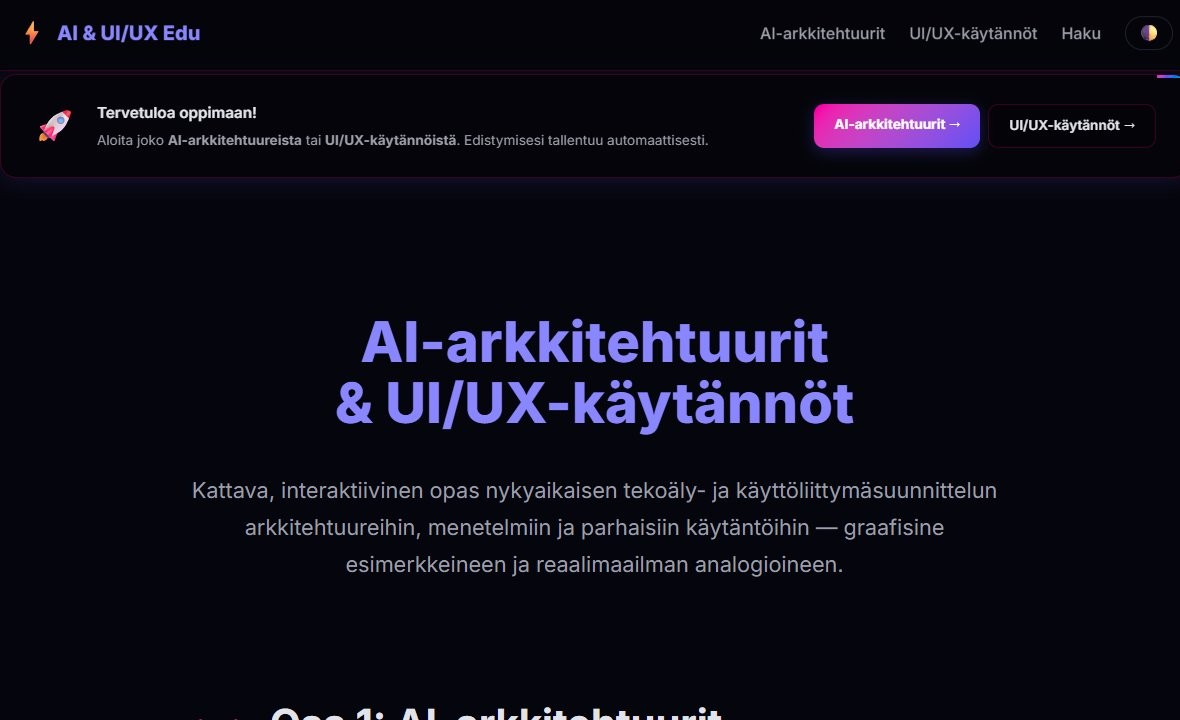
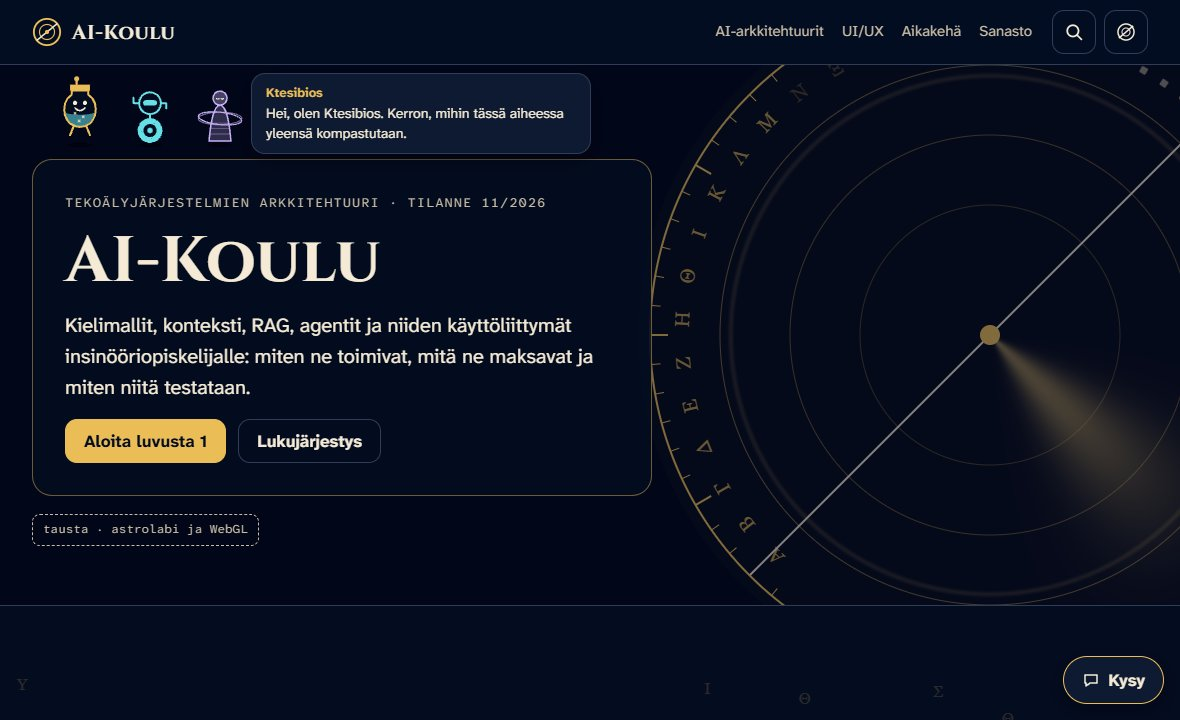
Refresh AI-Koulu card after its 11/2026 overhaul
New screenshot, one-liner, review and recommendations; pair is now
Väinämöinen · Claude Opus 5.5 with 3D/WebGL and Claude tags. Score
69 -> 98, 42 commits, last 2026-11-04, added to the Opus 5.5 lane.

diff --git a/src/data/content.ts b/src/data/content.ts
@@ -145,7 +145,7 @@ export const POINTS: { id: string; label: L10n; lines: Line[] }[] = [
   { id: 'top5', label: { fi: 'Oma top 5', en: 'My top 5' }, lines: [
     l('loiste', 'Viisi Infiniten itse valitsemaa projektia.', 'Five projects picked by Infinite.'),
     l('hionta', 'Pisteet tulevat kaavasta: tuoreus, laajuus, demo, testit, README ja kesto.', 'The score comes from a formula: recency, size, demo, tests, README and duration.'),
-    l('kirkkaus', 'Valinta ei seuraa pisteitä: AI-Koulu on pisteissä sijalla 16, mutta Infinite nostaa sen kärkeen.', 'The pick does not follow the scores: AI-Koulu is 16th by score, yet Infinite puts it first.'),
+    l('kirkkaus', 'Valinta ei seuraa pisteitä: Infinite nosti AI-Koulun kärkeen, kun se oli pisteissä sijalla 16. Uudistuksen jälkeen sillä on 98 pistettä, saman verran kuin Eldritchillä.', 'The pick does not follow the scores: Infinite put AI-Koulu first when it was 16th by score. After its overhaul it has 98 points, as many as Eldritch.'),
     l('loiste', 'Siksi se on oma valinta. Vie osoitin kortin päälle, niin kerromme siitä lisää.', 'That is what makes it a personal pick. Move the pointer over a card and we will tell you more.') ] },
   { id: 'projektit', label: { fi: 'Projektit', en: 'Projects' }, lines: [
     l('loiste', 'Tässä ovat kaikki 32 projektia tarinana: kuusi lukua maaliskuusta 2025 tähän päivään.', 'Here are all 32 projects as a story: six chapters from March 2025 to today.'),

diff --git a/src/data/analysis.ts b/src/data/analysis.ts
@@ -6,7 +6,7 @@ const x = (fi: string, en: string): L10n => ({ fi, en });
 
 export const ANALYSIS: Record<string, Analysis> = {
   'ai-koulu': {
-    tech: x('Astro ja MDX pitävät sisällön staattisena, React Flow piirtää kaaviot ja Pagefind hakee ilman palvelinta. Axe ja Playwright vahtivat saavutettavuutta.', 'Astro and MDX keep the content static, React Flow draws the diagrams and Pagefind searches without a server. Axe and Playwright guard accessibility.'),
+    tech: x('Astro 7 ja MDX pitävät sisällön staattisena, React herää vain demoissa ja aikakehässä, ja Pagefind hakee ilman palvelinta. Vitest vahtii lähteitä ja dataa, Playwright ja axe käyttöliittymää kahdella leveydellä.', 'Astro 7 and MDX keep the content static, React wakes up only in the demos and the time ring, and Pagefind searches without a server. Vitest guards the sources and data, Playwright and axe the UI at two widths.'),
     philo: x('Tekoälyä opettava sivu, jonka ihminen ja tekoäly tekivät yhdessä. Opettaja ja oppiaine ovat samaa ainetta.', 'A site that teaches AI, made by a human and an AI together. The teacher and the subject are made of the same stuff.'),
     fun: x('Ainoa koulu, jossa kukaan ei ole jäänyt luokalle. Toisaalta oppilaita ei ole vielä laskettu.', 'The only school where nobody has been held back a year. Then again, nobody has counted the pupils yet.') },
   globeciv3: {
